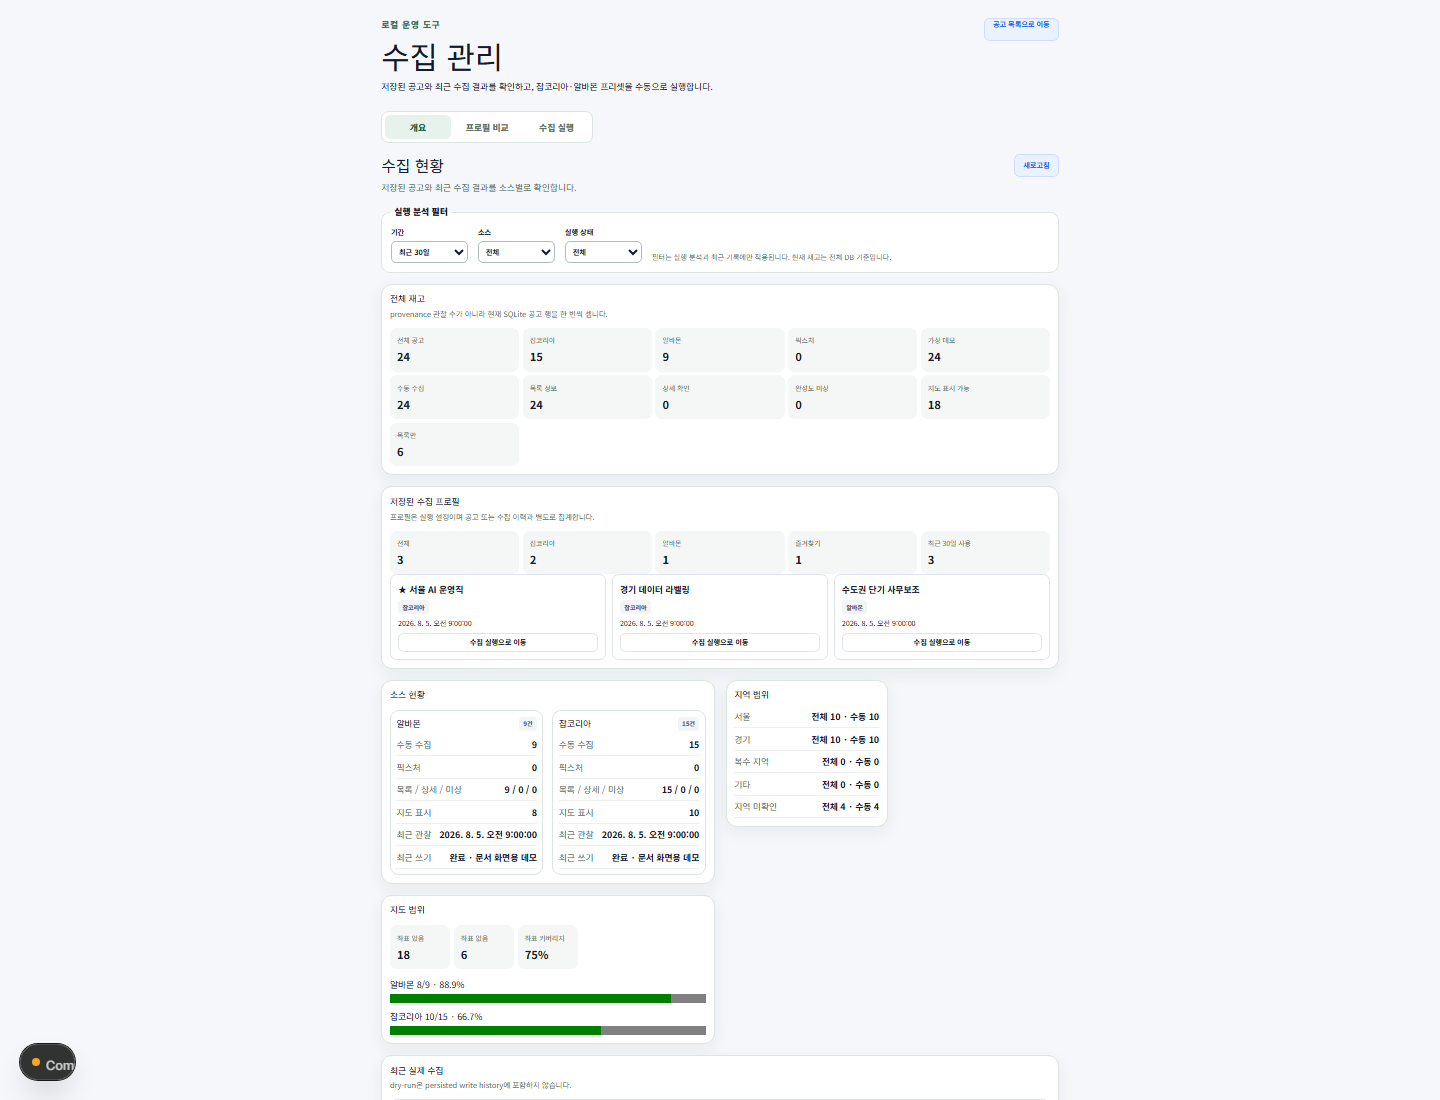
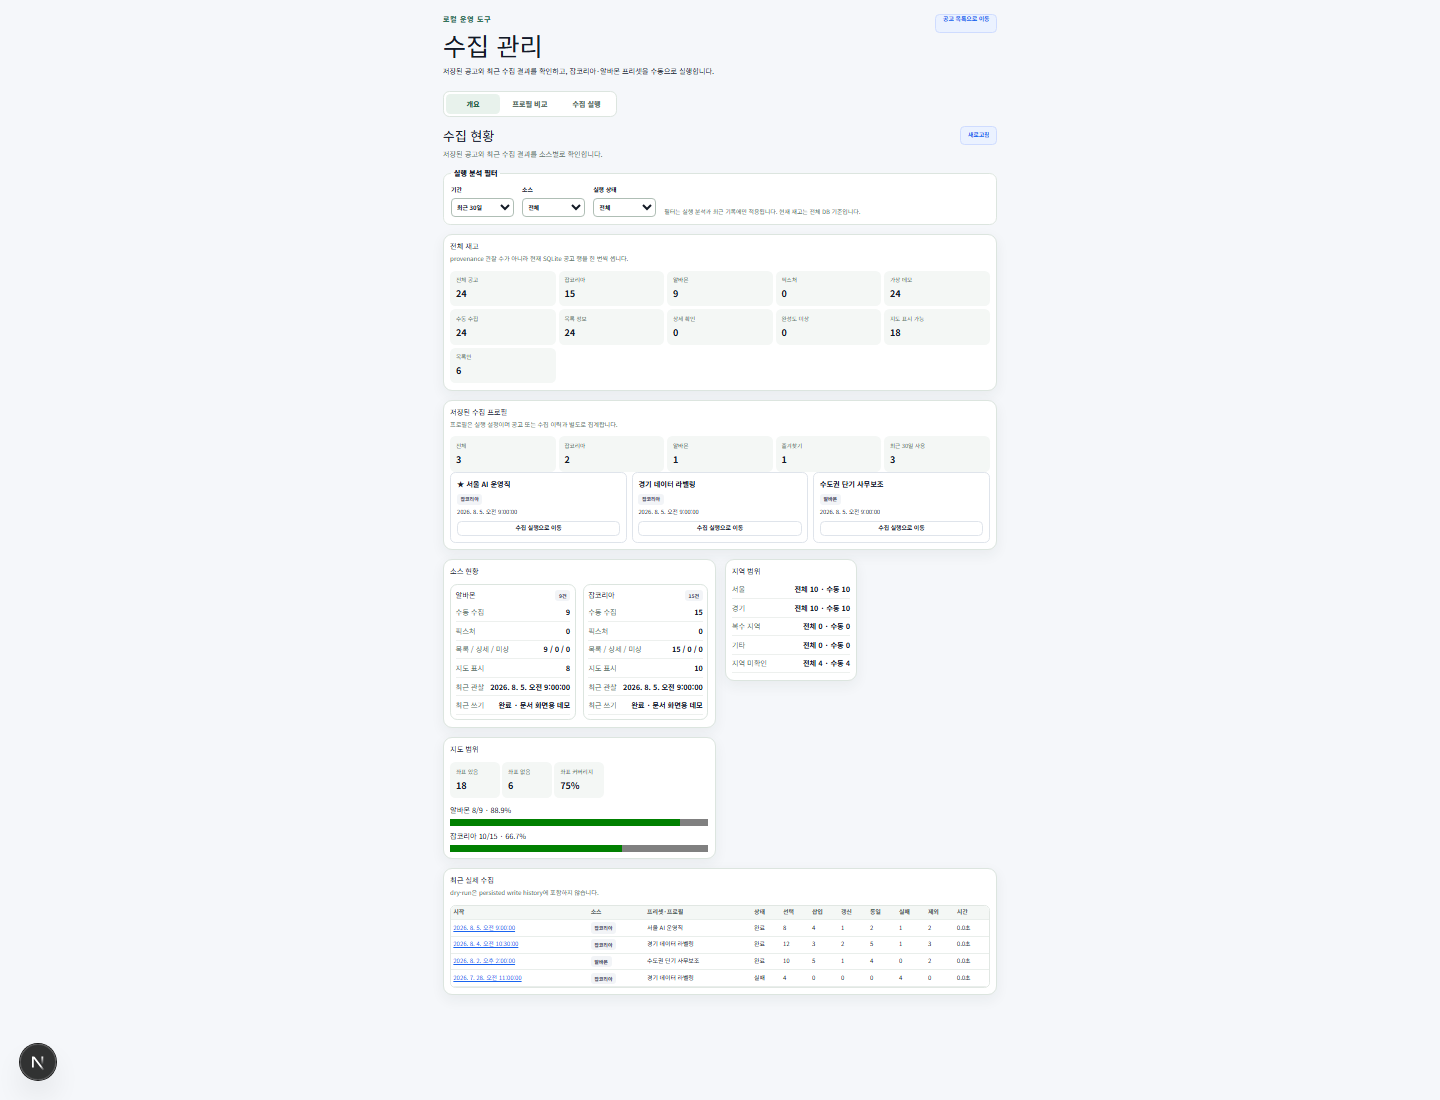
test: validate screenshot and release assets

diff --git a/scripts/capture-docs-screenshots.ts b/scripts/capture-docs-screenshots.ts
@@ -63,7 +63,7 @@ async function shot(context:BrowserContext,port:number,file:string,path:string,w
 async function main(){rmSync(work,{recursive:true,force:true});seed();const port=await freePort();const nextBin=resolve(root,"node_modules/next/dist/bin/next");const child=spawn(process.execPath,[nextBin,"dev","-H","127.0.0.1","-p",String(port)],{cwd:root,env:{...process.env,NEARBY_JOBS_DB_PATH:databasePath,NEARBY_JOBS_ENABLE_COLLECTION_UI:"1",NEXT_TELEMETRY_DISABLED:"1"},stdio:["ignore","pipe","pipe"]});let logs="";child.stdout?.on("data",d=>logs+=String(d));child.stderr?.on("data",d=>logs+=String(d));let browser;
   try{await waitForServer(`http://127.0.0.1:${port}`,child);browser=await chromium.launch({headless:true});const context=await browser.newContext({deviceScaleFactor:1});
     await shot(context,port,SCREENSHOT_SPECS[0].file,"/",1440,1000,async p=>{await p.getByRole("button",{name:/필터/}).first().click();await p.getByLabel("데이터 출처").selectOption("manual");await p.getByLabel("정보 완성도").selectOption("listing_only");await p.locator(".filter-grid select").nth(3).selectOption("seoul");await p.getByRole("button",{name:"결과 보기"}).click();await p.locator(".job-title-button").first().click();});
-    await shot(context,port,SCREENSHOT_SPECS[1].file,"/collection",1440,1100,async p=>{await p.getByText("저장된 수집 프로필").waitFor();await p.addStyleTag({content:".collection-page{zoom:.55}.collection-overview{grid-template-columns:repeat(2,minmax(0,1fr));align-items:start}.collection-overview>.dashboard-toolbar,.collection-overview>.dashboard-filters,.collection-overview>.dashboard-section:first-of-type,.collection-overview>.dashboard-section:nth-of-type(2),.collection-overview>.dashboard-section:has(.dashboard-run-table-wrap){grid-column:1/-1}.collection-panel{padding:14px}.dashboard-metric-grid{gap:6px}.source-overview-card{padding:10px}"});await p.evaluate(()=>{for(const heading of document.querySelectorAll(".dashboard-section h3"))if(["데이터 완성도","수집 효과","제외 키워드 영향"].includes(heading.textContent?.trim()??""))heading.closest<HTMLElement>(".dashboard-section")!.style.display="none";});});
+    await shot(context,port,SCREENSHOT_SPECS[1].file,"/collection",1440,1100,async p=>{await p.getByText("저장된 수집 프로필").waitFor();await p.addStyleTag({content:".collection-page{zoom:.45}.collection-overview{grid-template-columns:repeat(2,minmax(0,1fr));align-items:start}.collection-overview>.dashboard-toolbar,.collection-overview>.dashboard-filters,.collection-overview>.dashboard-section:first-of-type,.collection-overview>.dashboard-section:nth-of-type(2),.collection-overview>.dashboard-section:has(.dashboard-run-table-wrap){grid-column:1/-1}.collection-panel{padding:14px}.dashboard-metric-grid{gap:6px}.source-overview-card{padding:10px}.dashboard-run-table th,.dashboard-run-table td{padding:5px}"});await p.evaluate(()=>{for(const heading of document.querySelectorAll(".dashboard-section h3"))if(["데이터 완성도","수집 효과","제외 키워드 영향"].includes(heading.textContent?.trim()??""))heading.closest<HTMLElement>(".dashboard-section")!.style.display="none";});});
     await shot(context,port,SCREENSHOT_SPECS[2].file,"/collection?tab=execution",1440,1100,async p=>{await p.getByRole("tab",{name:"수집 실행"}).click();await p.getByRole("heading",{name:"저장된 프로필"}).waitFor();await p.addStyleTag({content:".collection-page{zoom:.82}"});await p.evaluate(()=>scrollTo(0,0));});
     await shot(context,port,SCREENSHOT_SPECS[3].file,`/collection?tab=compare&profiles=${profileIds[0]},${profileIds[1]}&period=all&revisionScope=current`,1440,1100,async p=>{await p.getByRole("tab",{name:"프로필 비교"}).click();await p.getByRole("button",{name:/비교하기/}).click();await p.getByText("정확한 공고 ID 중복").waitFor();await p.addStyleTag({content:".collection-page{zoom:.62}.comparison-selector{display:none}.comparison-results{gap:7px}.comparison-results>.collection-panel{padding:9px}.comparison-table th,.comparison-table td{padding:3px}.difference-summary{margin:3px 0}.comparison-grid article{padding:7px}.comparison-grid p{margin:3px 0}"});await p.evaluate(()=>{const panels=[...document.querySelectorAll<HTMLElement>(".comparison-results>.collection-panel")];panels.at(-1)?.remove();const configRows=[...panels[0]!.querySelectorAll<HTMLTableRowElement>("tbody tr")];configRows.forEach((row,index)=>{if(![1,3,4,5,6,8].includes(index))row.style.display="none";});const performanceRows=[...panels[2]!.querySelectorAll<HTMLTableRowElement>("tbody tr")];performanceRows.forEach((row,index)=>{if(![0,1,3,4,6,7].includes(index))row.style.display="none";});scrollTo(0,0);});});
     await shot(context,port,SCREENSHOT_SPECS[4].file,"/",390,844,async p=>{await p.locator(".job-title-button").first().click();await p.locator(".job-workspace").waitFor();await p.addStyleTag({content:".job-primary,.observation-note{display:none!important}.job-card{font-size:.82rem}.job-workspace{padding:12px!important}.job-workspace textarea{min-height:54px!important}.job-workspace .profile-form-grid{gap:6px!important}.job-workspace input{min-height:36px!important}.notice-strip,.workflow-bar{display:none!important}"});await p.evaluate(()=>{const card=document.querySelector(".job-card.selected");if(card)scrollTo(0,card.getBoundingClientRect().top+scrollY-64);});});
